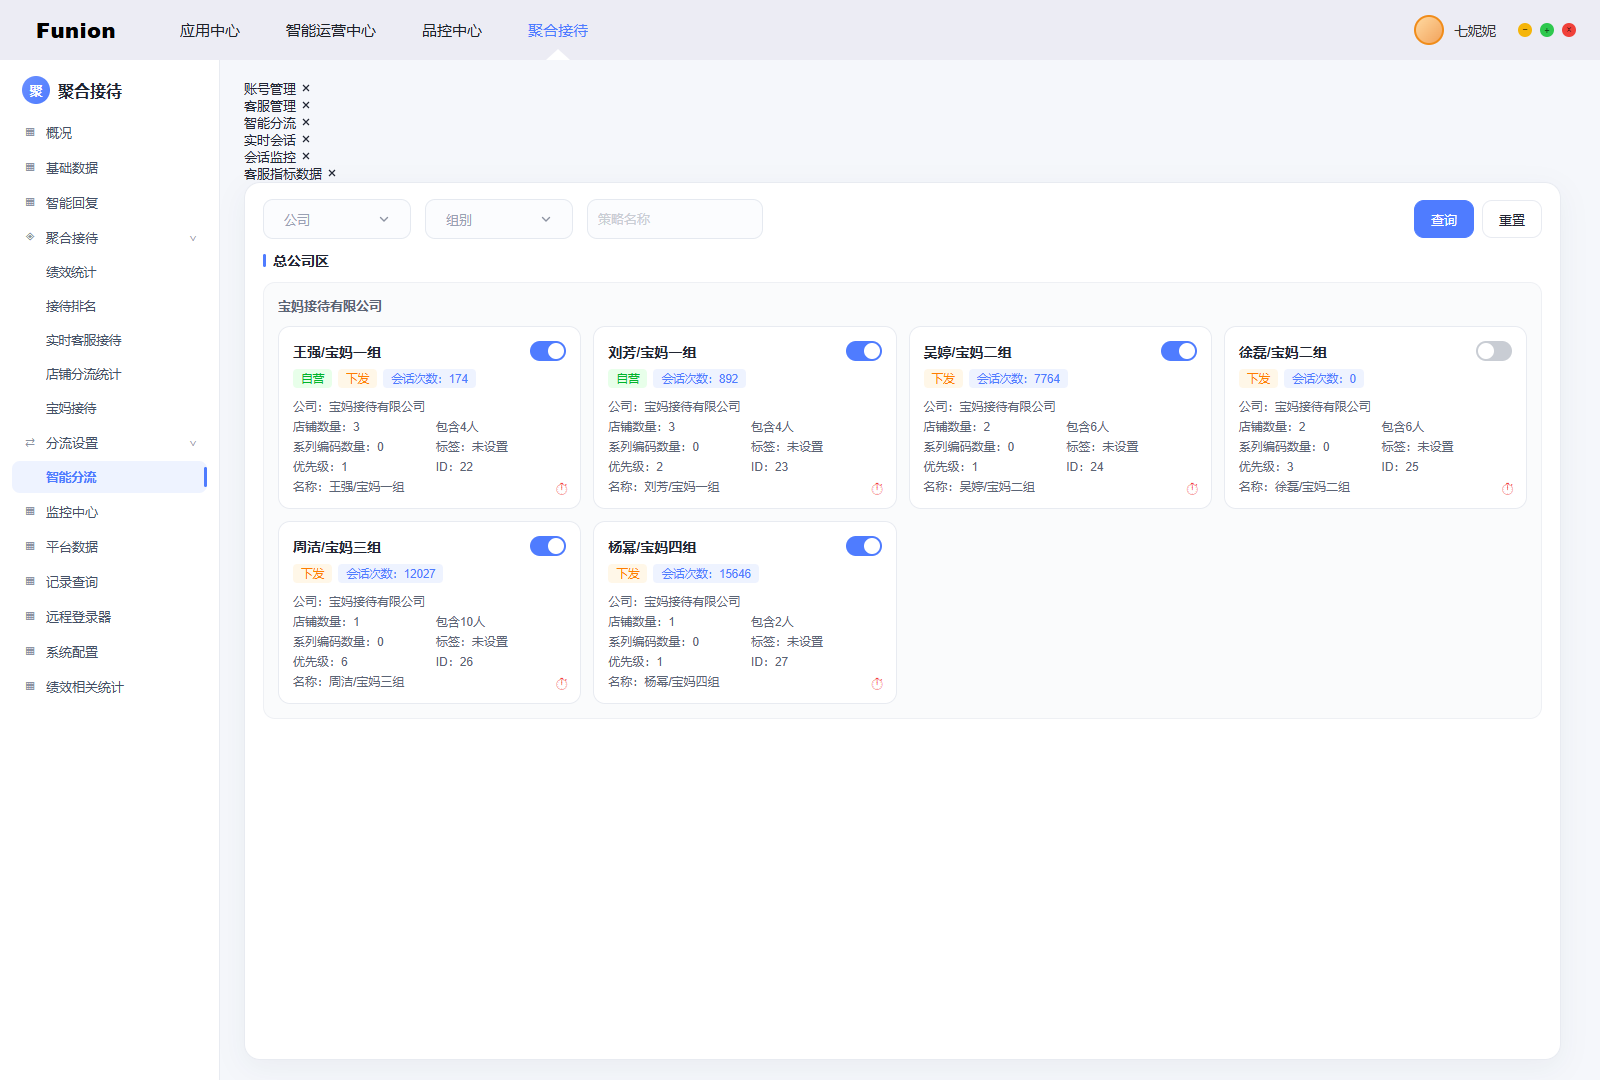
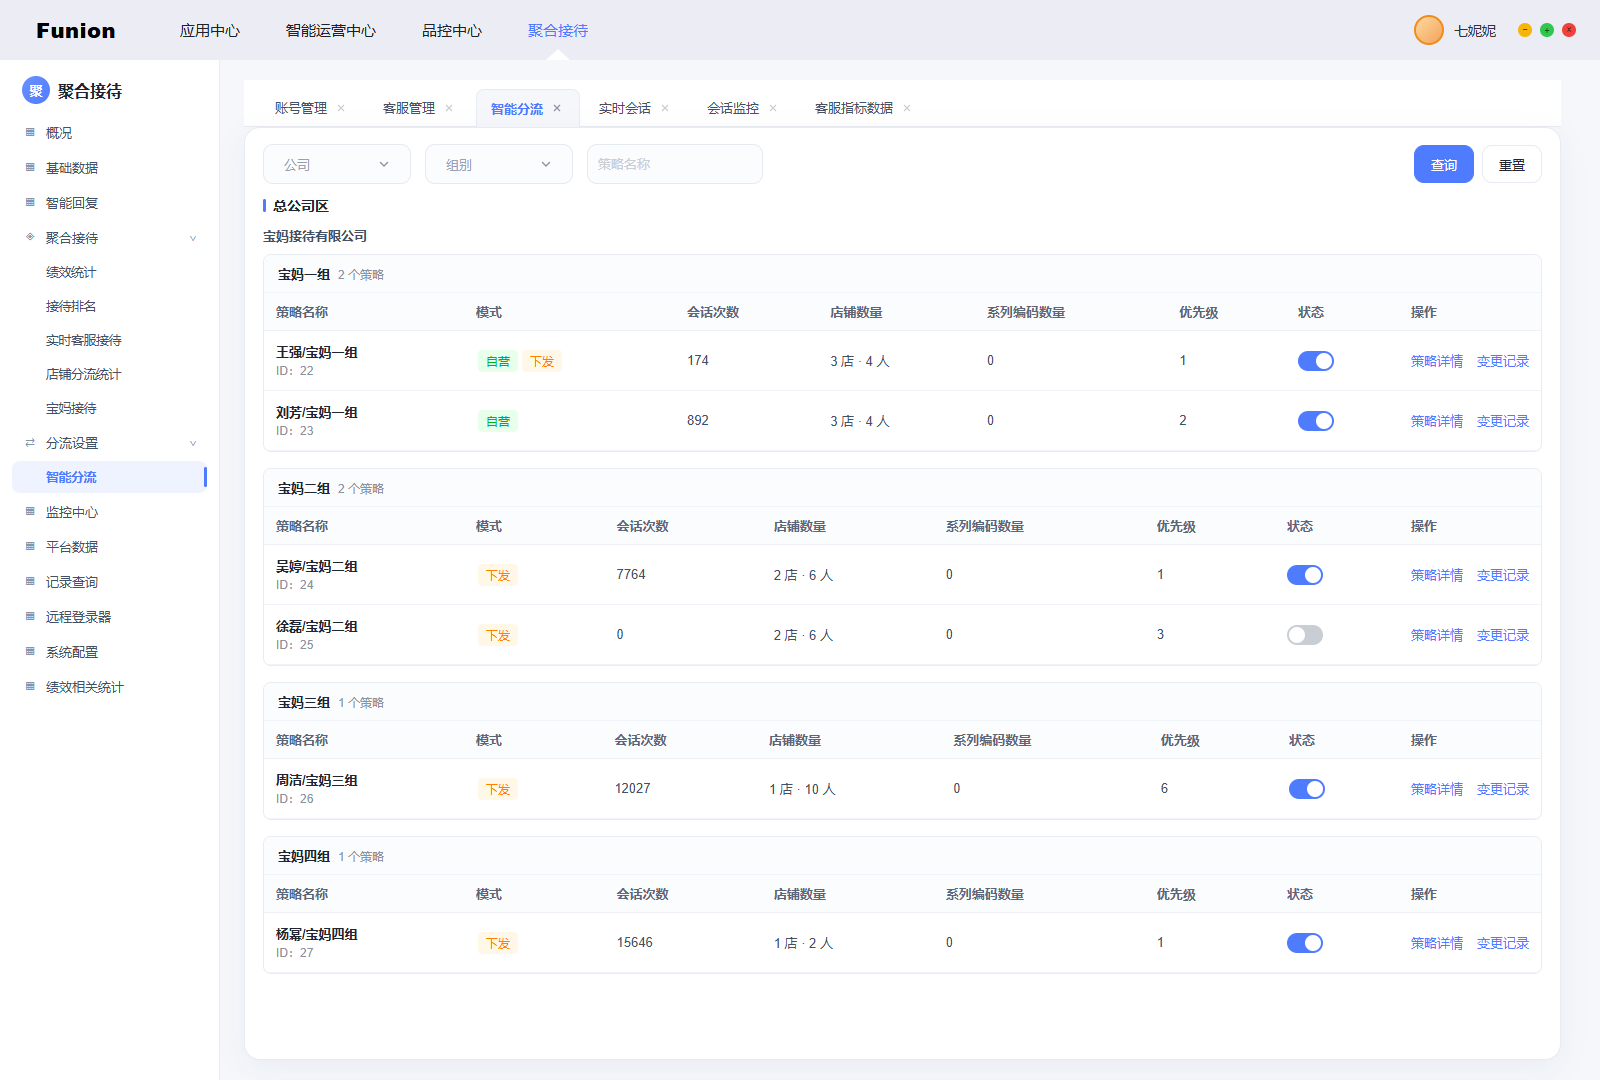
refactor(rc): 智能分流页交互重构（窗口 tab 栏 + 分组策略表）
- 修复顶部窗口 tab 无样式渲染为裸文本的还原缺陷，补浏览器式窗口 tab 栏（激活高亮/关闭占位）

- 策略卡片信息 dump 改为分组标准表格：组别表头 + 名称(ID 副行)/模式标签/会话次数/店铺·人数/系列编码数量/优先级/状态开关/操作（策略详情·变更记录）

- 组内按优先级升序呈现分流顺序；行点击开详情抽屉，行内开关与操作链接独立响应

- 抽屉、选择账号弹窗、筛选、跳转打开抽屉等功能与占位 toast 全部保留；样式全部走 token 与共享类

diff --git a/src/pages/reception/StrategyBoard.vue b/src/pages/reception/StrategyBoard.vue
@@ -1,12 +1,13 @@
 <script setup lang="ts">
 /* =========================================================
    聚合接待 · 视图②「智能分流」策略页（面包屑：分流设置 › 智能分流）
-   6 窗口 tab / 策略卡片 / 策略详情抽屉 / 选择账号弹窗
+   6 窗口 tab / 分组策略表格 / 策略详情抽屉 / 选择账号弹窗
    ========================================================= */
 import { computed, onBeforeUnmount, onMounted, ref, watch } from 'vue';
 import { RC_COMPANY, RC_GROUPS, RC_STRATEGIES, type RcGroup, type RcStrategy } from './data';
 import Modal from '../../components/Modal.vue';
 import BubbleSelect from '../../components/BubbleSelect.vue';
+import Ellipsis from '../../components/Ellipsis.vue';
 
 /** 演示占位文案口径（与线上逐字一致） */
 const toastPlaceholder = (name: string) => `演示原型：「${name}」页面暂未开放`;
@@ -81,6 +82,20 @@ const filtered = computed(() => cards.value.filter((c) => {
 
 const drawerCard = computed(() => cards.value.find((c) => c.id === drawerId.value) ?? null);
 
+/** 表格按组别分组（组内按优先级升序，直观呈现分流顺序） */
+const grouped = computed(() => {
+  const map = new Map<string, RcStrategy[]>();
+  filtered.value.forEach((c) => {
+    const list = map.get(c.group) ?? [];
+    list.push(c);
+    map.set(c.group, list);
+  });
+  return [...map.entries()].map(([group, rows]) => ({
+    group,
+    rows: [...rows].sort((a, b) => a.priority - b.priority),
+  }));
+});
+
 const openCard = (card: RcStrategy) => {
   cfg.value = { ...DEFAULT_CFG, personnel: [card.name.split('/')[0]] };
   drawerId.value = card.id;
@@ -136,7 +151,7 @@ const pkSelected = computed(() => CANDIDATES
         @click="props.pushToast(t === '智能分流' ? '演示原型：当前页不可关闭' : toastPlaceholder(t))"
       >
         {{ t }}
-        <span class="x" @click.stop="props.pushToast(t === '智能分流' ? '演示原型：当前页不可关闭' : toastPlaceholder(t))">
+        <span class="x" title="关闭窗口" @click.stop="props.pushToast(t === '智能分流' ? '演示原型：当前页不可关闭' : toastPlaceholder(t))">
           <svg width="12" height="12" viewBox="0 0 24 24" fill="none" stroke="currentColor" stroke-width="2.4"><path d="M18 6L6 18M6 6l12 12" /></svg>
         </span>
       </div>
@@ -169,43 +184,60 @@ const pkSelected = computed(() => CANDIDATES
         </div>
       </div>
 
-      <!-- 总公司区 -->
+      <!-- 总公司区：分组策略表（组内按优先级升序） -->
       <div class="rc-sec-title">总公司区</div>
-      <div class="rc-company-box">
-        <div class="rc-company-name">{{ RC_COMPANY }}</div>
-        <div v-if="filtered.length === 0" class="rc-empty">暂无数据</div>
-        <div v-else class="rc-cards">
-          <div v-for="c in filtered" :key="c.id" class="rc-card" @click="openCard(c)">
-            <div class="rc-card-head">
-              <b class="rc-card-name">{{ c.name }}</b>
-              <span
-                class="rc-switch"
-                :class="{ on: c.on }"
-                title="启用/停用策略"
-                @click.stop="toggleCardSwitch(c)"
-              ><i /></span>
-            </div>
-            <div class="rc-card-tags">
-              <span v-for="t in c.tags" :key="t" class="rc-tag" :class="t === '自营' ? 'green' : 'orange'">{{ t }}</span>
-              <span class="rc-tag blue">会话次数：{{ c.sessions }}</span>
-            </div>
-            <div class="rc-card-grid">
-              <span class="full">公司：{{ RC_COMPANY }}</span>
-              <span>店铺数量：{{ c.shops }}</span>
-              <span>包含{{ c.people }}人</span>
-              <span>系列编码数量：{{ c.codes }}</span>
-              <span>标签：未设置</span>
-              <span>优先级：{{ c.priority }}</span>
-              <span>ID：{{ c.id }}</span>
-              <span class="full">名称：{{ c.name }}</span>
-            </div>
-            <span
-              class="rc-card-clock"
-              title="变更记录"
-              @click.stop="props.pushToast('演示占位：变更记录后续迭代设计')"
-            >⏱</span>
+      <div class="rc-st-company">{{ RC_COMPANY }}</div>
+      <div v-if="filtered.length === 0" class="rc-empty">暂无数据</div>
+      <div v-else class="rc-st-groups">
+        <section v-for="g in grouped" :key="g.group" class="rc-st-group">
+          <div class="rc-st-ghead">
+            <b>{{ g.group }}</b>
+            <span class="rc-dim">{{ g.rows.length }} 个策略</span>
           </div>
-        </div>
+          <table class="table rc-st-table">
+            <thead>
+              <tr>
+                <th class="th-name">策略名称</th>
+                <th>模式</th>
+                <th>会话次数</th>
+                <th>店铺数量</th>
+                <th>系列编码数量</th>
+                <th>优先级</th>
+                <th>状态</th>
+                <th class="th-op">操作</th>
+              </tr>
+            </thead>
+            <tbody>
+              <tr v-for="c in g.rows" :key="c.id" class="rc-st-row" @click="openCard(c)">
+                <td>
+                  <Ellipsis class-name="rc-st-name" :text="c.name" />
+                  <div class="rc-st-id">ID：{{ c.id }}</div>
+                </td>
+                <td>
+                  <span v-for="t in c.tags" :key="t" class="tag" :class="t === '自营' ? 'green' : 'orange'">{{ t }}</span>
+                </td>
+                <td>{{ c.sessions }}</td>
+                <td>{{ c.shops }} 店 · {{ c.people }} 人</td>
+                <td>{{ c.codes }}</td>
+                <td>{{ c.priority }}</td>
+                <td>
+                  <span
+                    class="rc-switch"
+                    :class="{ on: c.on }"
+                    title="启用/停用策略"
+                    @click.stop="toggleCardSwitch(c)"
+                  ><i /></span>
+                </td>
+                <td>
+                  <div class="op" @click.stop>
+                    <a @click="openCard(c)">策略详情</a>
+                    <a @click="props.pushToast('演示占位：变更记录后续迭代设计')">变更记录</a>
+                  </div>
+                </td>
+              </tr>
+            </tbody>
+          </table>
+        </section>
       </div>
     </div>
 
